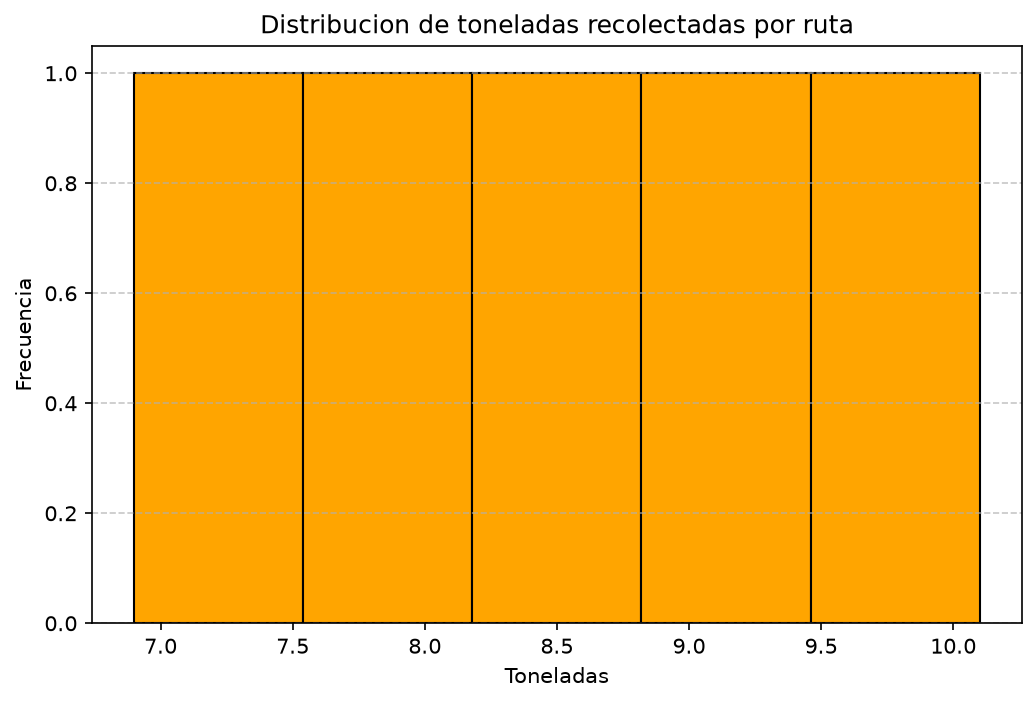
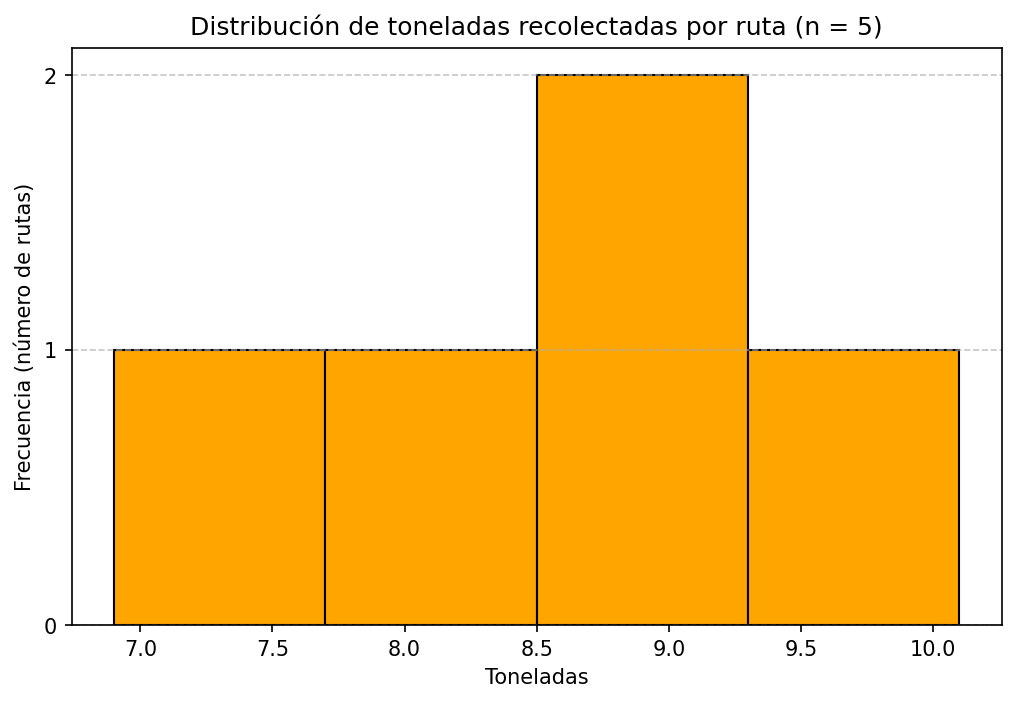
EDA con NumPy: mas variables, hallazgos calculados y 3 graficos

diff --git a/src/eda_proyecto.py b/src/eda_proyecto.py
@@ -1,117 +1,273 @@
 """
 eda_proyecto.py
-Actividad independiente: Analisis Exploratorio de Datos (EDA) del proyecto
-de optimizacion de rutas de recoleccion de residuos, usando NumPy y Matplotlib.
+Analisis Exploratorio de Datos (EDA) del proyecto de optimizacion de rutas de
+recoleccion de residuos, usando NumPy y Matplotlib.
+
+Reutiliza:
+    - cargar_datos.leer_datos            -> CSV a lista de diccionarios
+    - procesamiento.procesar_registros   -> agrega indicadores por ruta
 """
 
-import csv
-import numpy as np
+import matplotlib
+
+matplotlib.use("Agg")  # Docker no tiene pantalla: los graficos se guardan como PNG
 import matplotlib.pyplot as plt
+import numpy as np
+from matplotlib.ticker import MaxNLocator
+
+from cargar_datos import leer_datos
+from config import DIR_DATOS, RUTA_CSV
+from procesamiento import procesar_registros
+
+# Variables numericas que se analizan: nombre de columna -> etiqueta legible
+VARIABLES = {
+    "toneladas": "Toneladas recolectadas",
+    "km_recorridos": "Kilómetros recorridos",
+    "combustible_tanqueado": "Combustible tanqueado (galones)",
+    "duracion_ruta_horas": "Duración de la ruta (horas)",
+    "toneladas_por_hora": "Toneladas por hora",
+    "km_por_galon": "Kilómetros por galón",
+}
+
+# Con menos registros que este umbral los hallazgos son solo indicativos
+MUESTRA_MINIMA = 30
+
+# Etiquetas legibles para las estadisticas
+ETIQUETAS_STATS = {
+    "media": "Media",
+    "mediana": "Mediana",
+    "desviacion": "Desviación estándar",
+    "minimo": "Mínimo",
+    "maximo": "Máximo",
+}
 
 
-def cargar_datos(archivo_csv):
-    """
-    Lee el CSV de rutas y devuelve:
-        - un array de NumPy con las columnas numericas de interes
-          (toneladas y km_recorridos)
-        - la lista completa de registros (como diccionarios)
-    """
-    registros = []
-
-    archivo = open(archivo_csv, "r", encoding="utf-8")
-    lector = csv.DictReader(archivo)
-
-    for fila in lector:
-        registros.append(fila)
-
-    archivo.close()
-
-    toneladas = []
-    kilometros = []
+# ---------------------------------------------------------------------------
+# Preparacion de datos
+# ---------------------------------------------------------------------------
+def extraer_columna(registros, columna):
+    """Devuelve un array de NumPy (float) con los valores de una columna, omitiendo faltantes."""
+    valores = []
     for fila in registros:
-        toneladas.append(float(fila["toneladas"]))
-        kilometros.append(float(fila["km_recorridos"]))
-
-    # Armamos una matriz de 2 columnas: [toneladas, km_recorridos]
-    datos_numericos = np.array([toneladas, kilometros]).T
-
-    print("Datos cargados correctamente:", len(registros), "registros.")
-    return datos_numericos, registros
+        valor = fila.get(columna)
+        if valor is not None and valor != "":
+            valores.append(valor)
+    return np.array(valores, dtype=float)
 
 
-def analizar_datos(datos_numericos):
-    """Calcula media, mediana, desviacion, minimo y maximo de cada variable."""
-    toneladas = datos_numericos[:, 0]
-    kilometros = datos_numericos[:, 1]
+def contar_faltantes(registros):
+    """
+    Cuenta cuantos valores vacios (None o '') hay por columna.
+    Devuelve solo las columnas con faltantes; un diccionario vacio significa
+    que los datos estan completos.
+    """
+    faltantes = {}
+    for fila in registros:
+        for columna, valor in fila.items():
+            if valor is None or valor == "":
+                faltantes[columna] = faltantes.get(columna, 0) + 1
+    return faltantes
 
-    estadisticas = {
-        "toneladas": {
-            "media": np.mean(toneladas),
-            "mediana": np.median(toneladas),
-            "desviacion": np.std(toneladas),
-            "minimo": np.min(toneladas),
-            "maximo": np.max(toneladas),
-        },
-        "km_recorridos": {
-            "media": np.mean(kilometros),
-            "mediana": np.median(kilometros),
-            "desviacion": np.std(kilometros),
-            "minimo": np.min(kilometros),
-            "maximo": np.max(kilometros),
-        },
+
+# ---------------------------------------------------------------------------
+# Estadisticas con NumPy
+# ---------------------------------------------------------------------------
+def analizar_variable(valores):
+    """
+    Estadisticas descriptivas de un array. La desviacion es poblacional
+    (np.std con ddof=0, igual que en clase).
+    """
+    return {
+        "media": np.mean(valores),
+        "mediana": np.median(valores),
+        "desviacion": np.std(valores),
+        "minimo": np.min(valores),
+        "maximo": np.max(valores),
     }
 
+
+def analizar_datos(registros):
+    """Calcula las estadisticas de todas las variables definidas en VARIABLES."""
+    estadisticas = {}
+    for columna in VARIABLES:
+        valores = extraer_columna(registros, columna)
+        if len(valores) > 0:
+            estadisticas[columna] = analizar_variable(valores)
     return estadisticas
 
 
-def generar_visualizaciones(datos_numericos):
-    """Genera un histograma y un grafico de dispersion, guardados como PNG."""
-    toneladas = datos_numericos[:, 0]
-    kilometros = datos_numericos[:, 1]
+def calcular_correlacion(x, y):
+    """Coeficiente de correlacion de Pearson entre dos arrays (entre -1 y 1)."""
+    return float(np.corrcoef(x, y)[0, 1])
 
-    # 1. Histograma: distribucion de toneladas recolectadas
-    plt.figure(figsize=(8, 5))
-    plt.hist(toneladas, bins=5, color="orange", edgecolor="black")
-    plt.title("Distribucion de toneladas recolectadas por ruta")
-    plt.xlabel("Toneladas")
-    plt.ylabel("Frecuencia")
-    plt.grid(True, axis="y", linestyle="--", alpha=0.7)
-    plt.savefig("../data/distribucion_toneladas.png", dpi=150, bbox_inches="tight")
-    plt.close()
 
-    # 2. Dispersion: toneladas vs kilometros recorridos
-    plt.figure(figsize=(8, 6))
-    plt.scatter(kilometros, toneladas, color="green", alpha=0.7)
-    plt.title("Relacion: Kilometros recorridos vs Toneladas recolectadas")
-    plt.xlabel("Kilometros recorridos")
+def describir_correlacion(r):
+    """Traduce r a palabras. Ej: 0.78 -> 'fuerte positiva'."""
+    fuerza = abs(r)
+    if fuerza >= 0.7:
+        intensidad = "fuerte"
+    elif fuerza >= 0.4:
+        intensidad = "moderada"
+    else:
+        intensidad = "débil"
+    signo = "positiva" if r >= 0 else "negativa"
+    return intensidad + " " + signo
+
+
+def promedio_por_grupo(registros, columna_grupo, columna_valor):
+    """
+    Promedio de columna_valor para cada valor distinto de columna_grupo.
+    Devuelve {valor_grupo: (promedio, cantidad_de_rutas)}.
+    """
+    grupos = {}
+    for fila in registros:
+        grupos.setdefault(fila[columna_grupo], []).append(fila[columna_valor])
+
+    resultado = {}
+    for grupo, valores in sorted(grupos.items()):
+        resultado[grupo] = (float(np.mean(valores)), len(valores))
+    return resultado
+
+
+# ---------------------------------------------------------------------------
+# Hallazgos
+# ---------------------------------------------------------------------------
+def identificar_hallazgos(registros):
+    """
+    Devuelve una lista de frases con hallazgos calculados a partir de los datos.
+    Al estar calculados (no escritos a mano) se actualizan solos cuando se
+    cargue el historico real de la empresa.
+    """
+    hallazgos = []
+
+    toneladas = extraer_columna(registros, "toneladas")
+    km = extraer_columna(registros, "km_recorridos")
+    duracion = extraer_columna(registros, "duracion_ruta_horas")
+    combustible = extraer_columna(registros, "combustible_tanqueado")
+    km_galon = extraer_columna(registros, "km_por_galon")
+
+    # 1. Que explica la carga recolectada: distancia y duracion
+    r_km = calcular_correlacion(km, toneladas)
+    r_dur = calcular_correlacion(duracion, toneladas)
+    hallazgos.append(
+        "Las toneladas recolectadas tienen correlación "
+        + describir_correlacion(r_km) + " con los km recorridos (r = " + str(round(r_km, 2)) + ") y "
+        + describir_correlacion(r_dur) + " con la duración de la ruta (r = " + str(round(r_dur, 2)) + ")."
+    )
+
+    # 2. Efecto del tamaño de la tripulacion
+    por_tripulacion = promedio_por_grupo(registros, "tripulantes", "toneladas")
+    if len(por_tripulacion) > 1:
+        partes = []
+        for tripulantes, (promedio, cantidad) in por_tripulacion.items():
+            partes.append(
+                str(tripulantes) + " tripulantes: " + str(round(promedio, 2)) + " t (" + str(cantidad) + " rutas)"
+            )
+        hallazgos.append("Toneladas promedio según tripulación → " + "; ".join(partes) + ".")
+
+    # 3. Consumo de combustible
+    cv = np.std(km_galon) / np.mean(km_galon)  # coeficiente de variacion
+    r_comb = calcular_correlacion(km, combustible)
+    estabilidad = "muy estable" if cv < 0.05 else "variable"
+    hallazgos.append(
+        "El rendimiento de combustible es " + estabilidad + ": "
+        + str(round(float(np.mean(km_galon)), 2)) + " km/galón en promedio (variación de "
+        + str(round(float(cv) * 100, 1)) + " %) y el combustible tiene correlación "
+        + describir_correlacion(r_comb) + " con los km (r = " + str(round(r_comb, 2)) + ")."
+    )
+
+    return hallazgos
+
+
+# ---------------------------------------------------------------------------
+# Visualizacion con Matplotlib
+# ---------------------------------------------------------------------------
+def generar_visualizaciones(registros):
+    """Genera 3 graficos (barras, histograma y dispersion) y los guarda como PNG en data/."""
+    toneladas = extraer_columna(registros, "toneladas")
+    km = extraer_columna(registros, "km_recorridos")
+
+    # 1. Barras: toneladas por ruta, con el promedio como referencia
+    etiquetas = []
+    for fila in registros:
+        etiquetas.append("Ruta " + str(fila["ruta_id"]) + "\n" + str(fila["fecha"])[5:])
+
+    promedio = float(np.mean(toneladas))
+    plt.figure(figsize=(9, 5))
+    barras = plt.bar(etiquetas, toneladas, color="steelblue", edgecolor="black")
+    plt.bar_label(barras, fmt="%.1f")
+    plt.axhline(promedio, color="red", linestyle="--", label="Promedio (" + str(round(promedio, 2)) + " t)")
+    plt.title("Toneladas recolectadas por ruta")
+    plt.xlabel("Ruta (mes-día)")
     plt.ylabel("Toneladas")
-    plt.grid(True)
-    plt.savefig("../data/km_vs_toneladas.png", dpi=150, bbox_inches="tight")
+    plt.legend()
+    plt.grid(True, axis="y", linestyle="--", alpha=0.5)
+    plt.savefig(DIR_DATOS / "toneladas_por_ruta.png", dpi=150, bbox_inches="tight")
     plt.close()
 
-    print("Graficas guardadas: data/distribucion_toneladas.png, data/km_vs_toneladas.png")
+    # 2. Histograma: distribucion de toneladas recolectadas
+    plt.figure(figsize=(8, 5))
+    plt.hist(toneladas, bins="auto", color="orange", edgecolor="black")
+    plt.title("Distribución de toneladas recolectadas por ruta (n = " + str(len(toneladas)) + ")")
+    plt.xlabel("Toneladas")
+    plt.ylabel("Frecuencia (número de rutas)")
+    plt.gca().yaxis.set_major_locator(MaxNLocator(integer=True))  # conteos enteros
+    plt.grid(True, axis="y", linestyle="--", alpha=0.7)
+    plt.savefig(DIR_DATOS / "distribucion_toneladas.png", dpi=150, bbox_inches="tight")
+    plt.close()
+
+    # 3. Dispersion: km recorridos vs toneladas, con linea de tendencia
+    plt.figure(figsize=(8, 6))
+    plt.scatter(km, toneladas, color="green", alpha=0.7, s=70, label="Rutas")
+    if len(km) >= 3:
+        pendiente, intercepto = np.polyfit(km, toneladas, 1)
+        r = calcular_correlacion(km, toneladas)
+        eje_x = np.linspace(km.min(), km.max(), 50)
+        plt.plot(eje_x, pendiente * eje_x + intercepto, "r--",
+                 label="Tendencia lineal (r = " + str(round(r, 2)) + ")")
+    plt.title("Relación: kilómetros recorridos vs toneladas recolectadas")
+    plt.xlabel("Kilómetros recorridos")
+    plt.ylabel("Toneladas")
+    plt.legend()
+    plt.grid(True)
+    plt.savefig(DIR_DATOS / "km_vs_toneladas.png", dpi=150, bbox_inches="tight")
+    plt.close()
+
+    print("Gráficas guardadas en data/: toneladas_por_ruta.png, "
+          "distribucion_toneladas.png, km_vs_toneladas.png")
+
+
+# ---------------------------------------------------------------------------
+# Ejecucion independiente: python eda_proyecto.py
+# ---------------------------------------------------------------------------
+def imprimir_estadisticas(estadisticas):
+    """Muestra las estadisticas en consola de forma legible."""
+    for columna, valores in estadisticas.items():
+        print("\n" + VARIABLES[columna].upper() + ":")
+        for nombre_stat, valor in valores.items():
+            print("  " + ETIQUETAS_STATS[nombre_stat] + ": " + str(round(float(valor), 2)))
 
 
 def main():
     print("=" * 50)
-    print("ANALISIS EXPLORATORIO DE DATOS (EDA) - PROYECTO DE RUTAS")
+    print("ANÁLISIS EXPLORATORIO DE DATOS (EDA) - PROYECTO DE RUTAS")
     print("=" * 50)
 
-    datos_numericos, registros = cargar_datos("../data/rutas_ejemplo.csv")
+    registros = procesar_registros(leer_datos(RUTA_CSV))
+    print("Registros cargados:", len(registros))
 
-    estadisticas = analizar_datos(datos_numericos)
+    print("Valores faltantes:", contar_faltantes(registros) or "ninguno")
 
-    print("\nESTADISTICAS DESCRIPTIVAS:")
-    print("-" * 40)
-    for variable, valores in estadisticas.items():
-        print("\n" + variable.upper() + ":")
-        for nombre_stat, valor in valores.items():
-            print("  " + nombre_stat.capitalize() + ": " + str(round(valor, 2)))
+    imprimir_estadisticas(analizar_datos(registros))
+
+    print("\nHALLAZGOS:")
+    for numero, hallazgo in enumerate(identificar_hallazgos(registros), start=1):
+        print(" " + str(numero) + ". " + hallazgo)
+    if len(registros) < MUESTRA_MINIMA:
+        print(" Nota: con solo " + str(len(registros)) + " registros estos hallazgos son indicativos, no concluyentes.")
 
     print("\nGENERANDO VISUALIZACIONES...")
-    generar_visualizaciones(datos_numericos)
-
-    print("\nAnalisis completado exitosamente.")
+    generar_visualizaciones(registros)
 
 
 if __name__ == "__main__":
